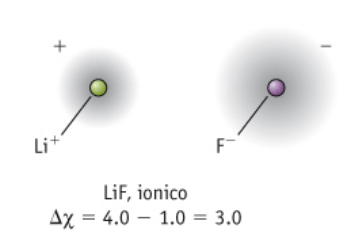
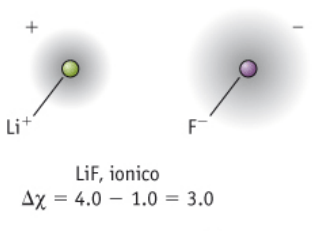
correzioni, impaginazione

diff --git a/Chapter/3-Sections/4-quarto.tex b/Chapter/3-Sections/4-quarto.tex
@@ -54,29 +54,30 @@ Nei vari esempi che seguono, per razionalizzare i valori sperimentali dei moment
 
 \vspace{0.2cm}\textbf{ES.1} F$_2$
 
-\begin{figure}[htp]
+\vspace{-0.3cm}\begin{figure}[H]
     \centering
-    \includegraphics[width=4cm]{immagini/F_2.png}
+    \includegraphics[width=5cm]{immagini/F_2.png}
 \end{figure}
 
-Due atomi di fluoro formano la molecola F$_2$. Sebbene il fluoro sia estremamente elettronegativo, i due atomi sono uguali, per cui la differenza in elettronegatività è pari a zero, quindi la condivisione dei due elettroni di legame è totale e il sistema è covalente.
+\vspace{-0.7cm}Due atomi di fluoro formano la molecola F$_2$. Sebbene il fluoro sia estremamente elettronegativo, i due atomi sono uguali, per cui la differenza in elettronegatività è pari a zero, quindi la condivisione dei due elettroni di legame è totale e il sistema è covalente.
 
 \vspace{0.2cm}\textbf{ES.2} HF
 
-\begin{figure}[htp]
+\vspace{-0.3cm}\begin{figure}[H]
     \centering
-    \includegraphics[width=5cm]{immagini/HF.png}
+    \includegraphics[width=4.8cm]{immagini/HF.png}
 \end{figure}
-Nell'acido fluoridrico la differenza di elettronegatività tra i due atomi è cospicua, e infatti la carica di legame(che può essere immaginata come una nube elettronica che circonda i due atomi) sarà più spostata verso l'atomo di fluoro e quindi meno presente sull'idrogeno. Il legame sarà allora covalente polare, con una parziale carica negativa $\delta^-$ sul fluoro e una parziale carica positiva $\delta^+$ sull'idrogeno. 
+
+\vspace{-0.4cm}Nell'acido fluoridrico la differenza di elettronegatività tra i due atomi è cospicua, e infatti la carica di legame(che può essere immaginata come una nube elettronica che circonda i due atomi) sarà più spostata verso l'atomo di fluoro e quindi meno presente sull'idrogeno. Il legame sarà allora covalente polare, con una parziale carica negativa $\delta^-$ sul fluoro e una parziale carica positiva $\delta^+$ sull'idrogeno. 
 
 \vspace{0.2cm}\textbf{ES.3} LiF
 
-\begin{figure}[htp]
+\vspace{-0.3cm}\begin{figure}[H]
     \centering
-    \includegraphics[width=5cm]{immagini/LiF.png}
+    \includegraphics[width=6.4cm]{immagini/LiF.png}
 \end{figure}
 
-\vspace{-0.4cm}In un sistema come il fluoruro di litio, la differenza di elettronegatività è elevata, per cui non ci sarà la nube continua tra i due atomi.
+\vspace{-0.8cm}In un sistema come il fluoruro di litio, la differenza di elettronegatività è elevata, per cui non ci sarà la nube continua tra i due atomi.
 
 Per questi sistemi si immagina che si abbia una cessione di elettroni, per cui non avremo Li e F ma Li$^+$ e F$^-$, cioè è come se il litio avesse ceduto il suo elettrone di valenza al fluoro, il quale tra l'altro acquistandolo avrà configurazione elettronica esterna tipo gas nobile.
 
@@ -86,7 +87,7 @@ Un sistema siffatto è etichettato sistema ionico.
 
 \vspace{-0.4cm}\begin{figure}[htp]
     \centering
-    \includegraphics[width=5cm]{immagini/HCl.png}
+    \includegraphics[width=6cm]{immagini/HCl.png}
 \end{figure}
 
 \vspace{-0.4cm}Nell'acido cloridrico la differenza di elettronegatività tra idrogeno e cloro è abbastanza evidente, per cui il legame è covalente polare.
@@ -95,7 +96,7 @@ Dato che stiamo ipotizzando che su tale molecola ci sia una buona polarità, com
 Per verificarne l'esistenza basta mettere dell'HCl gassoso in un contenitore dove sono presenti le espansioni polari di un elettromagnete. Se il campo elettrico è nullo, l'orientazione delle molecole sarà casuale, se invece applichiamo una differenza di potenziale tra le due piastre osserveremo che le molecole si orientano in modo tale che il cloro sia rivolto verso la lamina positiva (a potenziale maggiore).
 \begin{figure}[htp]
     \centering
-    \includegraphics[width=10cm]{immagini/condensatore.png}
+    \includegraphics[width=12cm]{immagini/condensatore.png}
 \end{figure}
 Come facciamo ad accorgercene?
 Il sistema che si viene così a costituire è un condensatore, dove tra le armature anziché il vuoto c'è un dielettrico: l'HCl. In questo modo possiamo quindi misurare il momento di dipolo, la cui unità di misura nel SI è il Coulomb per metro, con cui le molecole danno dei valori dell'ordine di 10$^{-30}$, per cui si usa un'altra unità di misura che è il Debye (D). Vale la relazione:

diff --git a/Chapter/6-Sections/2-secondo.tex b/Chapter/6-Sections/2-secondo.tex
@@ -189,7 +189,7 @@ Riportiamo adesso alcuni esempi dei valori delle costanti di equilibrio.
     Solfato di argneto & Ag$_2$SO$_4$ & $1.2 \cdot 10^{-5}$ & Idrossido di cromo (II) & Cr(OH)$_2$ & $2 \cdot 10^{-16}$ \\[0.7ex]
     Idrossido di calcio & Ca(OH)$_2$ & $5.02 \cdot 10^{-6}$ & Idrossido di nichel & Ni(OH)$_2$ & $5.48 \cdot 10^{-16}$ \\[0.7ex]
     Bicromato di argento & Ag$_2$Cr$_2$O$_7$ & $2 \cdot 10^{-7}$ & Solfuro ferroso & FeS & $3.7 \cdot 10^{-19}$ (a 18° C)\\[0.7ex]
-    Iodato di rame & Cu(IO$_3$)$_2$ & $1.4 \cdot 10^{-7}$ & Idrossido di rame (II) & $\rm Cu(OH)_2$ & $4.8 \cdot 1o^{-20}$\\[0.7ex]
+    Iodato di rame & Cu(IO$_3$)$_2$ & $1.4 \cdot 10^{-7}$ & Idrossido di rame (II) & $\rm Cu(OH)_2$ & $4.8 \cdot 10^{-20}$\\[0.7ex]
     Carbonato di calcio & CaCO$_3$ & $0.87 \cdot 10^{-8}$ & Bromuro di mercurio & HgBr$_2$ & $8 \cdot 10^{-20}$\\[0.7ex]
     Solfato di piombo & PbSO$_4$ & $1.06 \cdot 10^{-8}$ (a 18° C) & Fosfato di alluminio & AlPO$_4$ & $9.84 \cdot 10^{-21}$\\[0.7ex]
     Ioduro di piombo & PbI$_2$ & $1.39 \cdot 10^{-8}$ & Solfuro di manganese & MnS & $10^{-22}$\\[0.7ex]

diff --git a/Chapter/3-Sections/1-primo.tex b/Chapter/3-Sections/1-primo.tex
@@ -432,7 +432,7 @@ Il silicio ha pieni gli orbitali 1s, 2s e 2p. Ha poi come elettroni di valenza i
 
     Anche in questo caso abbiamo scelto una delle tre possibili formule limite, che corrispondono ad avere un doppio legame con l'ossigeno a sinistra, in basso o a destra. Quello che si dovrebbe fare è scriverle tutte e tre e dire che le formule sono ugualmente probabili.
 
-\subsection{Strutture molecolari pi sbaddu}
+\subsubsection{Ulteriori strutture molecolari}
     $\bullet$ Gruppo 4A
 
     \vspace{0.2cm}
@@ -776,7 +776,7 @@ Il carbonio fornisce 4 elettroni, l'azoto 5 e l'ossigeno 6 per un totale di 15, 
         Nello ione carbonato la situazione è analoga al caso precedente.
     \end{itemize}
 \normalsize
-\subsection{Valenza espansa}
+\subsection{Gusci di valenza espansa}
 Esistono orbitali vuoti a bassa energia, ossia oltre agli orbitali nei quali allocare fino ad 8 elettroni, ce ne sono degli altri. Osserviamo due casi:
 
 \vspace{0.2cm}\textbf{ES.1} $\rm XeF_2$ n.e.=22

diff --git a/Chapter/9-Sections/4-quarto.tex b/Chapter/9-Sections/4-quarto.tex
@@ -584,11 +584,11 @@ $$\implies
 \rm pH=\log{\left(\frac{1}{9.9432 \cdot 10^{-3}}\right)}
 =2.00$$
 
-\vspace{0.2cm}\textbf{4.18}  In una soluzione 1,1 M di HCN, l'acido è dissociato per lo 0,0019\% a 25 °C. Trovare la concentrazione degli ioni $\rm H_3O^+$, il pH della soluzione e la costante di ionizzazione dell'acido. 
+\vspace{0.2cm}\textbf{4.18}  In una soluzione 1.1 M di HCN, l'acido è dissociato per lo 0,0019\% a 25 °C. Trovare la concentrazione degli ioni $\rm H_3O^+$, il pH della soluzione e la costante di ionizzazione dell'acido. 
 
 \vspace{0.2cm}\large\textbf{Svolgimento}\normalsize
 
-\vspace{0.2cm}
+\vspace{0.2cm}\textbf{qui}
 
 \vspace{0.2cm}\textbf{4.19}  Calcolare quanti mL di una soluzione di NaOH 0,2 M devono essere mescolati con
 100 mL di una soluzione di $\rm CH_3COOH$ 0,2 M affinché il pH della soluzione risultante sia 4,05. $k_{a_{\rm CH3COOH}}=1.8 \cdot 10^{-5}$.

diff --git a/Chapter/3-Sections/6-sesto.tex b/Chapter/3-Sections/6-sesto.tex
@@ -453,7 +453,7 @@ Inoltre si ha che se gli elettroni sono appaiati (stato di singoletto) l'ossigen
     \vspace{0.2cm}Comportamento magnetico osservato & Para & Dia & Dia & & Para & Dia
 \end{tabular}
 \end{center}
-I primi tre grafici sono uguali, cambia solo il riempimento degli elettroni:
+I primi tre grafici sono uguali, cambia solo il riempimento degli elettroni, cambiano a partire dall' $\rm O_2$ perché non c'è più l'anomalia.
 \begin{itemize}
     \item Il boro è al terzo gruppo, quindi trascurando gli orbitali 1s ha 3 elettroni di valenza, per un totale di 6 nel B$_2$.
     Arriviamo a riempire parzialmente i $\pi_{2p}$, in cui gli elettroni si dispongono nei due diversi orbitali degeneri, con spinn parallelo. Ci aspettiamo allora paramagnetismo per questo sistema, cosa che effettivamente è vera. L'ordine di legame è 1, quindi la scriviamo con un legame semplice;
